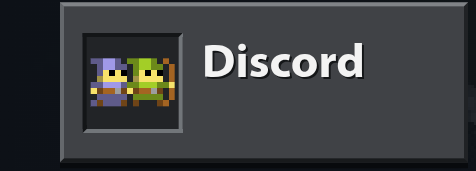
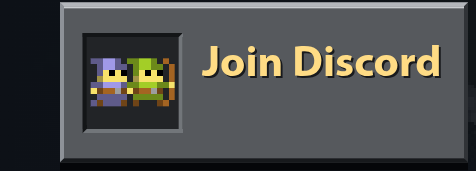
Make README buttons clearly clickable

Changed region(s): [[0.4118, 0.2339, 0.9412, 0.4678], [0.1176, 0.0, 1.0, 0.9357]]

diff --git a/profile/README.md b/profile/README.md
@@ -1,5 +1,5 @@
 <!-- Slices preserve the background and give Discord its own link without custom CSS. -->
-<p><picture><source media="(max-width: 680px)" srcset="https://raw.githubusercontent.com/OpenRotMG/.github/main/profile/assets/readme-top-mobile.png"><img width="100%" align="top" alt="Open RotMG. Recreating the 2012 realm." src="https://raw.githubusercontent.com/OpenRotMG/.github/main/profile/assets/readme-top.png"></picture><br><a href="https://discord.gg/EwZWNzzYwP"><picture><source media="(max-width: 680px)" srcset="https://raw.githubusercontent.com/OpenRotMG/.github/main/profile/assets/readme-discord-mobile.png"><img width="35%" align="top" alt="Discord" src="https://raw.githubusercontent.com/OpenRotMG/.github/main/profile/assets/readme-discord.png"></picture></a><picture><source media="(max-width: 680px)" srcset="https://raw.githubusercontent.com/OpenRotMG/.github/main/profile/assets/readme-play-mobile.png"><img width="65%" align="top" alt="Play now (coming soon)" src="https://raw.githubusercontent.com/OpenRotMG/.github/main/profile/assets/readme-play.png"></picture><br><picture><source media="(max-width: 680px)" srcset="https://raw.githubusercontent.com/OpenRotMG/.github/main/profile/assets/readme-bottom-mobile.png"><img width="100%" align="top" alt="" src="https://raw.githubusercontent.com/OpenRotMG/.github/main/profile/assets/readme-bottom.png"></picture></p>
+<p><picture><source media="(max-width: 680px)" srcset="https://raw.githubusercontent.com/OpenRotMG/.github/main/profile/assets/readme-top-mobile.png?v=e4cd5bd25485"><img width="100%" align="top" alt="Open RotMG. Recreating the 2012 realm." src="https://raw.githubusercontent.com/OpenRotMG/.github/main/profile/assets/readme-top.png?v=e4cd5bd25485"></picture><br><a href="https://discord.gg/EwZWNzzYwP"><picture><source media="(max-width: 680px)" srcset="https://raw.githubusercontent.com/OpenRotMG/.github/main/profile/assets/readme-discord-mobile.png?v=e4cd5bd25485"><img width="35%" align="top" alt="Join Discord" src="https://raw.githubusercontent.com/OpenRotMG/.github/main/profile/assets/readme-discord.png?v=e4cd5bd25485"></picture></a><picture><source media="(max-width: 680px)" srcset="https://raw.githubusercontent.com/OpenRotMG/.github/main/profile/assets/readme-play-mobile.png?v=e4cd5bd25485"><img width="65%" align="top" alt="Play now (coming soon)" src="https://raw.githubusercontent.com/OpenRotMG/.github/main/profile/assets/readme-play.png?v=e4cd5bd25485"></picture><br><picture><source media="(max-width: 680px)" srcset="https://raw.githubusercontent.com/OpenRotMG/.github/main/profile/assets/readme-bottom-mobile.png?v=e4cd5bd25485"><img width="100%" align="top" alt="" src="https://raw.githubusercontent.com/OpenRotMG/.github/main/profile/assets/readme-bottom.png?v=e4cd5bd25485"></picture></p>
 
 ## What is Open RotMG?
 
